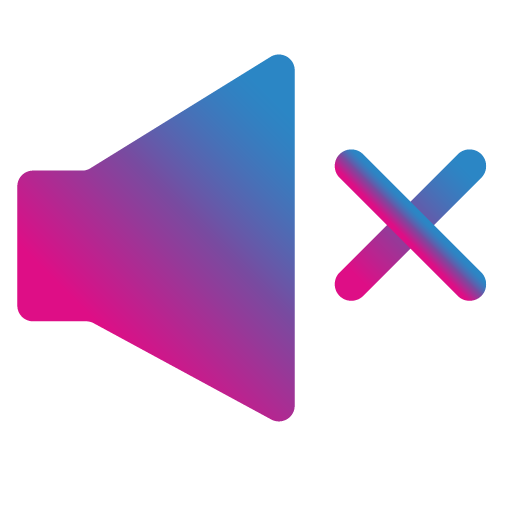
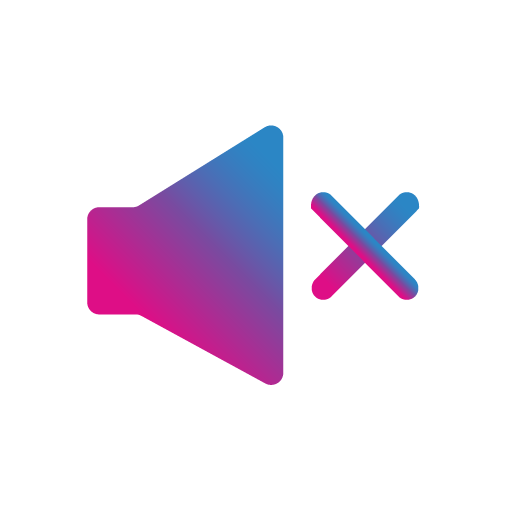
new muteButton, delete class muteIcon, margin for lyricsButton

Changed region(s): [[0.0312, 0.0938, 0.9688, 0.8438]]

diff --git a/static/css/player.css b/static/css/player.css
@@ -52,7 +52,7 @@
     top: 1px;
 }
 
-.submitButton, #selectFileLabel {
+/*.submitButton, #selectFileLabel {
     background: -webkit-gradient(linear, left top, left bottom, color-stop(0.05, #459ec7), color-stop(1, #28dbd2));
     background: -moz-linear-gradient(top, #459ec7 5%, #28dbd2 100%);
     background: -webkit-linear-gradient(top, #459ec7 5%, #28dbd2 100%);
@@ -85,9 +85,10 @@
     background: linear-gradient(to bottom, #28dbd2 5%, #459ec7 100%);
     filter: progid:DXImageTransform.Microsoft.gradient(startColorstr='#28dbd2', endColorstr='#459ec7', GradientType=0);
     background-color: #28dbd2;
-}
+}*/
 
 .lyricsButton {
+    margin-top: 7%;
     background: -webkit-gradient(linear, left top, left bottom, color-stop(0.05, #459ec7), color-stop(1, #28dbd2));
     background: -moz-linear-gradient(top, #459ec7 5%, #28dbd2 100%);
     background: -webkit-linear-gradient(top, #459ec7 5%, #28dbd2 100%);
@@ -105,9 +106,9 @@
     color: #ffffff;
     font-family: Arial;
     font-size: 17px;
-    padding: 5px 31px;
+    padding: 5px 20px;
     text-decoration: none;
-    text-shadow: 0px 1px 0px #2f6627;
+    text-shadow: 0px 1px 0px #3f3f3f;
 }
 
 .lyricsButton:hover {
@@ -151,7 +152,7 @@
     border-radius: 5px;
     padding: 2%;
     text-align: center;
-    font-size: 20pt;
+    font-size: 18pt;
     font-family: Verdana, serif;
     color: #bbb;
 }

diff --git a/static/player.html b/static/player.html
@@ -60,7 +60,7 @@
                 <div class="volumeLine" id="audioPlayBackVolumeBar"></div>
                 <div class="volumeBG" id="audioPlayBackVolumeController"></div>
                 <img class="volumeIcon" src="images/volumeButton.png" id="volumeIcon"/>
-                <img class="muteIcon hidden" src="images/muteButton.png" id="muteIcon"/>
+                <img class="volumeIcon hidden" src="images/muteButton.png" id="muteIcon"/>
             </div>
         </div>
     </header>
@@ -98,16 +98,13 @@
         <div id="drop_zone">Drop mp3 here!</div>
         <span class="space_top" id="drop_zone_message"></span>
     </div>
-    <div>
+    <div class="hidden">
         <label for="selectFileButton" id="selectFileLabel">
             OR CLICK HERE
             <input type="file" name="inputFile" id="selectFileButton" accept="audio/mpeg">
         </label>
     </div>
-
-    <br>
-
-        <div>
+    <div>
         <a class="lyricsButton" href="#popup1">SHOW LYRICS</a>
     </div>
 

diff --git a/static/css/style.css b/static/css/style.css
@@ -149,7 +149,7 @@ header .playlist {
 
 header .playlist:hover {
     opacity: 1;
-    transition: opacity 1s ease;
+    transition: opacity 0.3s ease;
 }
 
 header .setting {
@@ -208,13 +208,6 @@ header .volume .volumeIcon {
     float: left;
     width: 15%;
 }
-
-header .volume .muteIcon {
-    float: left;
-    width: 11%;
-    padding-top: 2%;
-}
-
 
 
 /*===============================================*/
@@ -420,7 +413,7 @@ footer .time-tracker {
 footer .time-tracker .timer {
     position: relative;
     float: left;
-    width: 90%;
+    width: 80%;
     height: 2rem;
     cursor: pointer;
 }
@@ -456,7 +449,7 @@ footer .time-tracker .timer .bgStart {
 footer #audioPlayBackProgressCounter {
     float: right;
     width: 10%;
-    margin-right: 3%;
+    margin-right: 5%;
     line-height: 2rem;
 }
 
